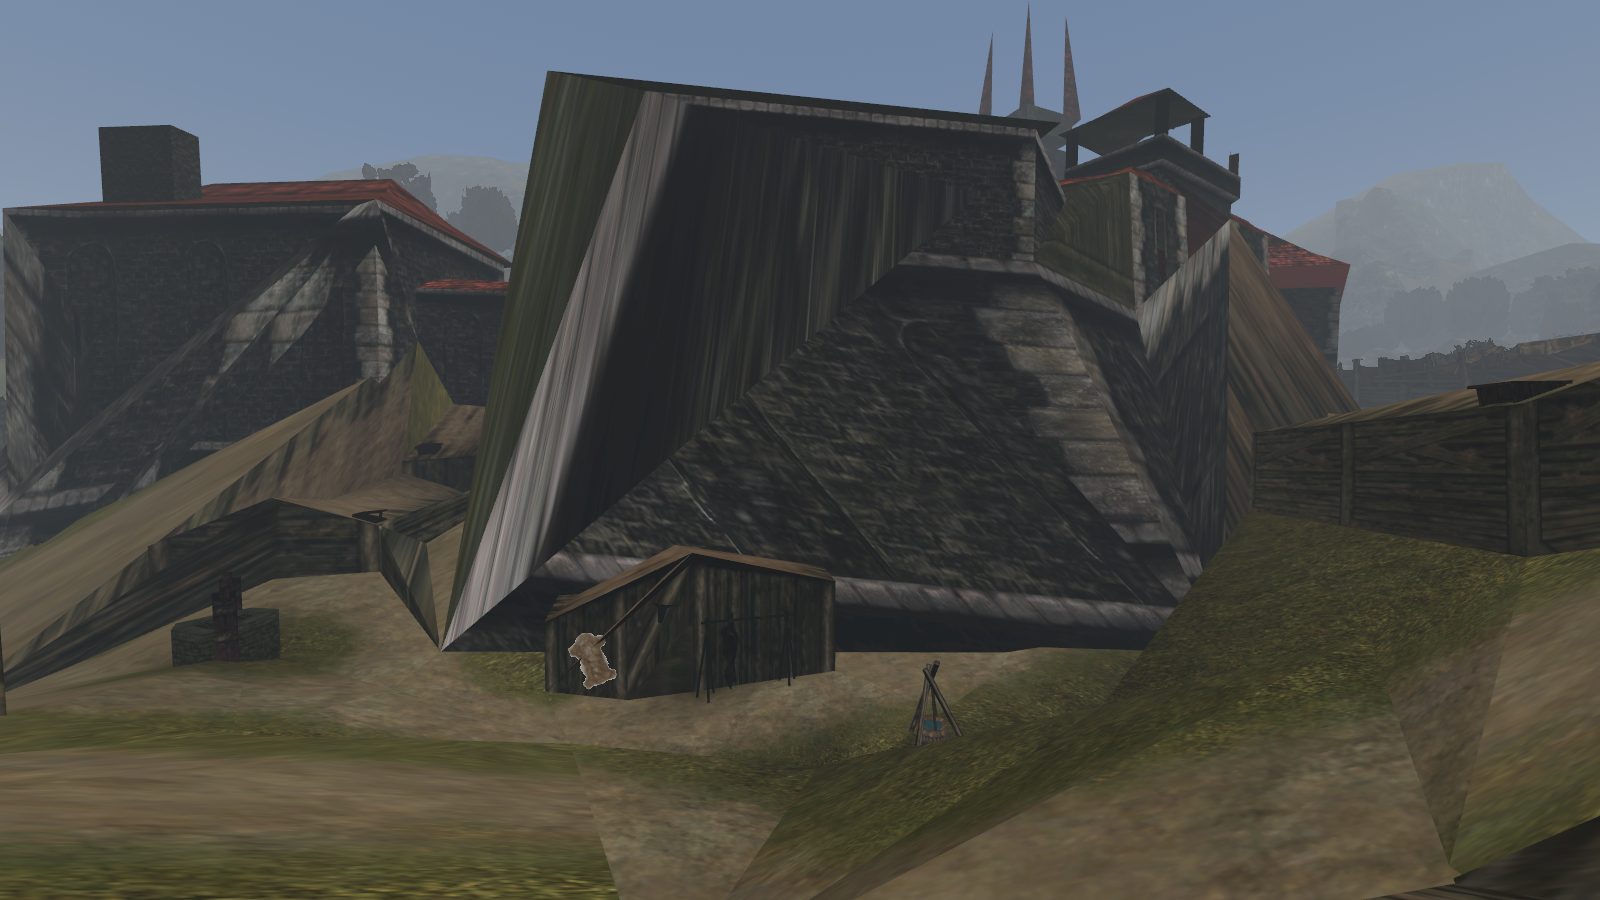
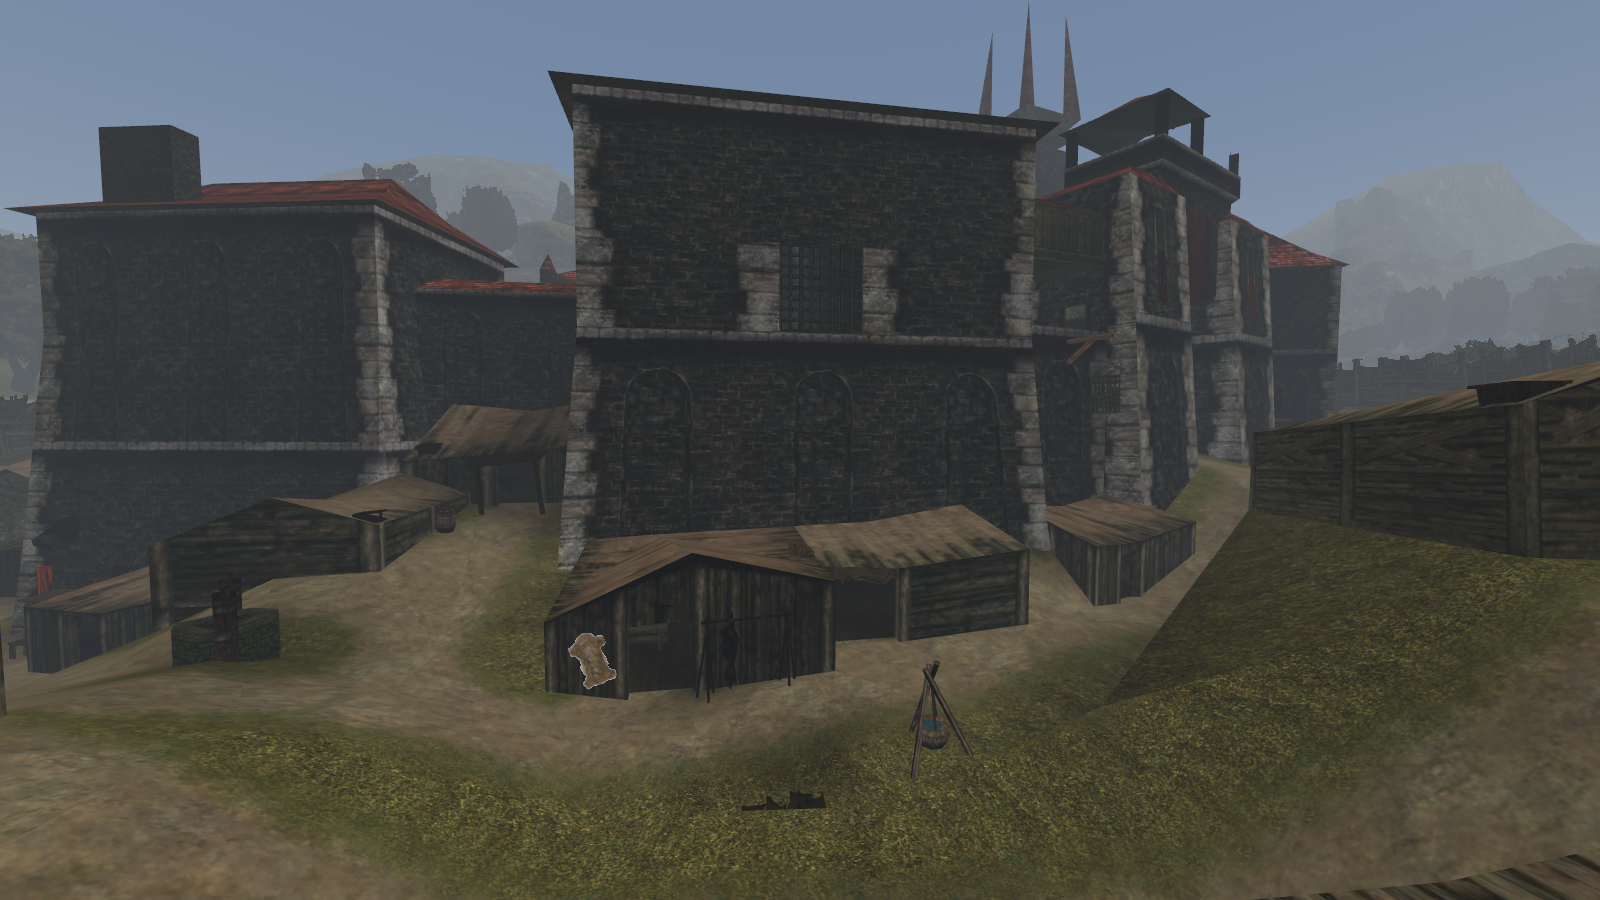
fix: the Godot spike draws only the world polygons Gothic's BSP leaves reference - the low detail copies overlapped the castle and made slanted slabs

diff --git a/Godot/Scripts/Spike/WorldChunkBuilder.cs b/Godot/Scripts/Spike/WorldChunkBuilder.cs
@@ -48,8 +48,30 @@ namespace GothicGodot.Spike
 
         public static Vector3 ToGodot(System.Numerics.Vector3 gothic) => new(gothic.X / 100f, gothic.Y / 100f, -gothic.Z / 100f);
 
-        public void Build(IMesh mesh, TextureArrayBuilder textures, float cellSize, Node3D parent,
-            Func<Kind, Material> getMaterial, GroundLightSampler groundLight = null)
+        /// <summary>
+        /// Gothic draws only the polygons its BSP leaves reference. The world mesh also holds about a quarter more:
+        /// low detail copies that overlap the real geometry (G1: 32565 of 138215).
+        /// </summary>
+        public static List<int> GetLeafPolygons(IBspTree bspTree)
+        {
+            var polygonIndices = bspTree.PolygonIndices;
+            var used = new HashSet<int>();
+            var result = new List<int>();
+            foreach (var leaf in bspTree.LeafNodeIndices)
+            {
+                var node = bspTree.GetNode(leaf);
+                for (var i = node.PolygonIndex; i < node.PolygonIndex + node.PolygonCount; i++)
+                {
+                    if (used.Add(polygonIndices[i]))
+                        result.Add(polygonIndices[i]);
+                }
+            }
+
+            return result;
+        }
+
+        public void Build(IMesh mesh, IReadOnlyList<int> polygonIds, TextureArrayBuilder textures, float cellSize,
+            Node3D parent, Func<Kind, Material> getMaterial, GroundLightSampler groundLight = null)
         {
             var materials = new MaterialInfo[mesh.MaterialCount];
             for (var i = 0; i < materials.Length; i++)
@@ -68,8 +90,9 @@ namespace GothicGodot.Spike
             var positions = mesh.Positions;
             var features = mesh.Features;
 
-            foreach (var polygon in polygons)
+            foreach (var polygonId in polygonIds)
             {
+                var polygon = polygons[polygonId];
                 if (polygon.IsPortal || polygon.IsGhostOccluder || polygon.PositionIndices.Count < 3)
                     continue;
 

diff --git a/Godot/Scripts/Spike/WorldSpike.cs b/Godot/Scripts/Spike/WorldSpike.cs
@@ -52,7 +52,8 @@ namespace GothicGodot.Spike
 
             var groundLight = new GroundLightSampler();
             var builder = new WorldChunkBuilder();
-            builder.Build(mesh, textures, _args.CellSize, worldRoot, kind => materials[(int)kind], groundLight);
+            var polygonIds = WorldChunkBuilder.GetLeafPolygons(world.BspTree.Cache());
+            builder.Build(mesh, polygonIds, textures, _args.CellSize, worldRoot, kind => materials[(int)kind], groundLight);
             Log($"world mesh built in {watch.ElapsedMilliseconds} ms: {builder.ChunkCount} chunks, " +
                 $"{builder.TriangleCount} triangles, {textures.LayerCount} texture layers, {textures.MissingCount} missing");
 

diff --git a/docs/wiki/Work-Log.md b/docs/wiki/Work-Log.md
@@ -13,7 +13,7 @@ First Gothic 1 world in Godot 4.7.2 (C#, Mobile renderer), desktop, rendered hea
 ![From the south](images/old-camp-overview-south.png)
 
 What is in it:
-- World mesh from ZenKit, cut into 64 m cells per kind (opaque, alpha tested, water): 636 meshes, 136k triangles.
+- World mesh from ZenKit, only the polygons the BSP leaves reference (like Gothic and Gothic-Unity), cut into 64 m cells per kind (opaque, alpha tested, water): 636 meshes, 107k triangles.
 - 7214 static objects (.3DS / MRM), 271 shared meshes, one node each.
 - One texture array (409 layers of 256 px, every texture scaled to the layer size) shared by everything.
 - Gothic's baked vertex light on the world; objects take the light of the world below them (like Gothic's ground polygon light), plus a little sun shading.
@@ -22,6 +22,7 @@ What is in it:
 Not in it: NPCs and animated models, mobs (.ASC), decals, particles, Gothic's sky, light maps of rooms, day time.
 
 Findings:
+- The world mesh holds 32565 polygons (of 138215) that no BSP leaf references: low detail copies overlapping the real geometry. The first renders drew them and got slanted slabs around the castle ("the height map gets funky around the center"). Drawing only BSP leaf polygons fixed it.
 - ZenKit works unchanged in Godot C# (.NET 8 desktop): VFS, world, meshes, textures. Native library resolution through `NativeLibrary.SetDllImportResolver`.
 - Loading on the desktop: world 1.1 s, world mesh 1 s, objects 0.3 s, texture array 0.1 s.
 - Managed memory 910 MB after loading, mostly the cached ZenKit world mesh and the builder lists. Too much for a Quest; the port needs Gothic-Unity's static cache approach (or streaming).
